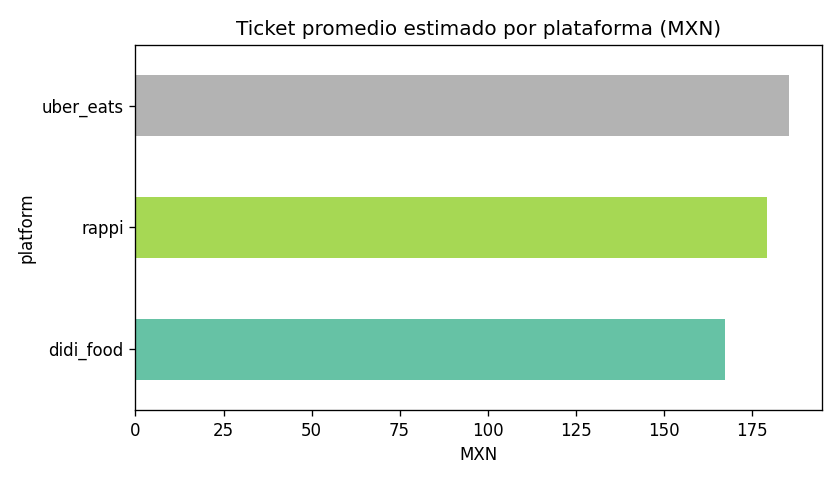
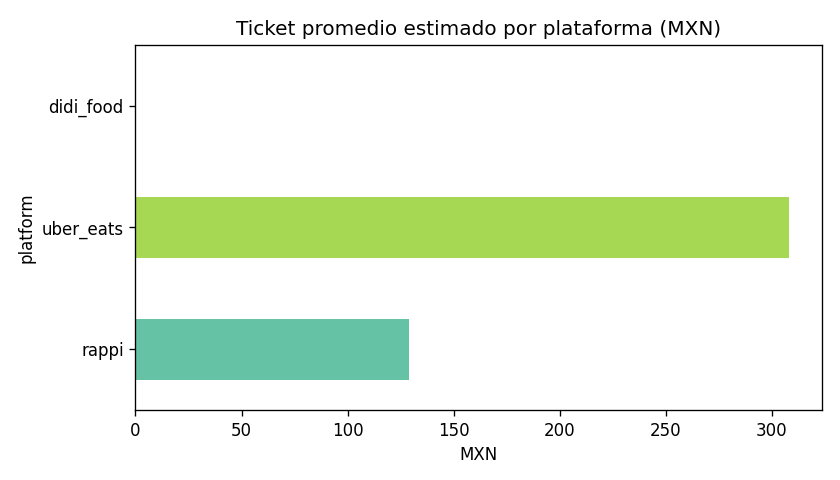
Improve CI report provenance text, Uber fee sanity checks, scraper roadmap in README.
Made-with: Cursor

diff --git a/caso_2_competitive_intelligence/competitive_intel/report_ci.py b/caso_2_competitive_intelligence/competitive_intel/report_ci.py
@@ -16,6 +16,50 @@ import pandas as pd
 from competitive_intel.paths import default_scrape_csv, reports_dir
 
 
+def _coerce_numeric(df: pd.DataFrame) -> pd.DataFrame:
+    out = df.copy()
+    for col in (
+        "item_price_mxn",
+        "delivery_fee_mxn",
+        "service_fee_mxn",
+        "total_checkout_mxn",
+        "eta_minutes",
+    ):
+        if col in out.columns:
+            out[col] = pd.to_numeric(out[col], errors="coerce")
+    return out
+
+
+def _provenance_lines(df: pd.DataFrame) -> list[str]:
+    lines = ["## Calidad y procedencia de datos", ""]
+    if "data_source" in df.columns:
+        vc = df["data_source"].astype(str).value_counts()
+        lines.append("**Origen (`data_source`):** " + "; ".join(f"`{k}` ({v} filas)" for k, v in vc.items()))
+        lines.append("")
+        if df["data_source"].astype(str).str.contains("synthetic_demo").any():
+            if df["data_source"].astype(str).eq("synthetic_demo").all():
+                lines.append(
+                    "- Todo el CSV es **demo sintético** (`synthetic_demo`): sirve para pipeline, no para decisiones de mercado."
+                )
+            else:
+                lines.append(
+                    "- **Mezcla** de filas sintéticas y scrape; revisar columna `data_source` fila a fila."
+                )
+        if df["data_source"].astype(str).str.contains("playwright").any():
+            lines.append(
+                "- Hay filas de **scrape web (Playwright)**. Los números dependen de la UI del momento; validar fees/precios que parezcan atípicos."
+            )
+    if "platform" in df.columns and "item_price_mxn" in df.columns:
+        cov = df.groupby("platform")["item_price_mxn"].apply(lambda s: s.notna().mean())
+        lines.append("")
+        lines.append(
+            "**Cobertura (% filas con precio de ítem):** "
+            + ", ".join(f"`{p}` {cov[p]:.0%}" for p in sorted(cov.index))
+        )
+    lines.append("")
+    return lines
+
+
 def _fig_bar_means(df: pd.DataFrame, col: str, title: str, ylabel: str, out: Path) -> None:
     g = df.groupby("platform")[col].mean().sort_values()
     fig, ax = plt.subplots(figsize=(7, 4))
@@ -35,7 +79,7 @@ def build_report(csv_path: Path | None = None) -> Path:
             "python -m competitive_intel demo | scrape | scrape --fallback-demo"
         )
 
-    df = pd.read_csv(csv_path)
+    df = _coerce_numeric(pd.read_csv(csv_path))
     rdir = reports_dir()
     fig_dir = rdir / "figures"
     fig_dir.mkdir(parents=True, exist_ok=True)
@@ -68,13 +112,37 @@ def build_report(csv_path: Path | None = None) -> Path:
     plt.close(fig)
 
     # --- Top 5 insights (datos agregados) ---
-    mean_total = df.groupby("platform")["total_checkout_mxn"].mean()
-    cheapest = mean_total.idxmin()
-    priciest = mean_total.idxmax()
-    mean_del = df.groupby("platform")["delivery_fee_mxn"].mean()
-    low_fee = mean_del.idxmin()
-    mean_eta = df.groupby("platform")["eta_minutes"].mean()
-    fastest = mean_eta.idxmin()
+    mean_total = df.groupby("platform")["total_checkout_mxn"].mean().dropna()
+    mean_del = df.groupby("platform")["delivery_fee_mxn"].mean().dropna()
+    mean_eta = df.groupby("platform")["eta_minutes"].mean().dropna()
+    cheapest = mean_total.idxmin() if len(mean_total) else "N/D"
+    priciest = mean_total.idxmax() if len(mean_total) else "N/D"
+    low_fee = mean_del.idxmin() if len(mean_del) else "N/D"
+    fastest = mean_eta.idxmin() if len(mean_eta) else "N/D"
+
+    all_demo = "data_source" in df.columns and df["data_source"].astype(str).eq("synthetic_demo").all()
+    any_pw = "data_source" in df.columns and df["data_source"].astype(str).str.contains("playwright").any()
+    if len(mean_eta) == 0:
+        eta_insight = "No hay ETA numérico suficiente para comparar plataformas en este CSV."
+        footer = "_Completar scrape o revisar filas sin `eta_minutes`._"
+    elif all_demo:
+        eta_insight = f"`{fastest}` lidera ETA medio en el **CSV sintético (demo)**."
+        footer = (
+            "_Este informe se generó a partir de **datos demo**. Para el enunciado real, sustituir por `scrape` Playwright "
+            "y validar cobertura por plataforma._"
+        )
+    elif any_pw:
+        eta_insight = (
+            f"`{fastest}` muestra el menor ETA medio **en este scrape web**; repetir corridas y contrastar con app "
+            "por posibles diferencias de UI."
+        )
+        footer = (
+            "_Datos obtenidos vía **navegador automatizado**; pueden faltar plataformas o filas. No usar como única "
+            "fuente para pricing en producción sin validación humana y, si aplica, canales oficiales/partners._"
+        )
+    else:
+        eta_insight = f"`{fastest}` lidera ETA medio en este dataset."
+        footer = "_Revisar procedencia en columna `data_source` del CSV._"
 
     promo_rate = df.assign(
         has_promo=df["promotions_visible"].astype(str).str.lower().ne("ninguna visible")
@@ -85,16 +153,35 @@ def build_report(csv_path: Path | None = None) -> Path:
     city_std = city_spread.std(axis=1).sort_values(ascending=False)
     volatile_city = city_std.index[0] if len(city_std) else "N/D"
 
+    if len(mean_total) >= 2:
+        ticket_bullet = (
+            f"- **Ticket medio más bajo:** `{cheapest}` (~{mean_total[cheapest]:.1f} MXN vs `{priciest}` "
+            f"~{mean_total[priciest]:.1f} MXN)."
+        )
+    elif len(mean_total) == 1:
+        only = mean_total.index[0]
+        ticket_bullet = f"- **Solo una plataforma con ticket calculable:** `{only}` (~{mean_total[only]:.1f} MXN)."
+    else:
+        ticket_bullet = (
+            "- **Ticket medio:** datos insuficientes (revisar NaN en `total_checkout_mxn` / cobertura por plataforma)."
+        )
+    eta_bullet = (
+        f"- **Menor ETA medio:** `{fastest}` (~{mean_eta[fastest]:.0f} min)."
+        if len(mean_eta)
+        else "- **ETA:** sin datos numéricos suficientes."
+    )
+
     lines = [
         "# Informe — Competitive Intelligence (México)",
         "",
         f"_Fuente CSV: `{csv_path.name}`. Filas: {len(df)}._",
         "",
+        *_provenance_lines(df),
         "## Comparativo rápido",
         "",
-        f"- **Ticket medio más bajo:** `{cheapest}` (~{mean_total[cheapest]:.1f} MXN vs `{priciest}` ~{mean_total[priciest]:.1f} MXN).",
+        ticket_bullet,
         f"- **Delivery fee más bajo en promedio:** `{low_fee}`.",
-        f"- **Menor ETA medio:** `{fastest}` (~{mean_eta[fastest]:.0f} min).",
+        eta_bullet,
         f"- **Ciudad con mayor dispersión entre plataformas (ticket):** `{volatile_city}`.",
         f"- **Tasa filas con promoción visible (no 'Ninguna'):** "
         + ", ".join(f"`{p}` {promo_rate[p]:.0%}" for p in sorted(promo_rate.index)),
@@ -109,17 +196,27 @@ def build_report(csv_path: Path | None = None) -> Path:
         "",
         "## Top 5 insights accionables",
         "",
-        f"1. **Finding:** En este dataset, `{cheapest}` muestra ticket medio más bajo que `{priciest}`.  ",
-        "   **Impacto:** Percepción de precio y conversión en carrito pueden verse afectadas en zonas sensibles al precio.  ",
-        f"   **Recomendación:** Revisar bundle/promos en ciudades donde la brecha vs `{cheapest}` sea mayor al percentil 75.",
+        *(
+            [
+                f"1. **Finding:** En este dataset, `{cheapest}` muestra ticket medio más bajo que `{priciest}`.  ",
+                "   **Impacto:** Percepción de precio y conversión en carrito pueden verse afectadas en zonas sensibles al precio.  ",
+                f"   **Recomendación:** Revisar bundle/promos en ciudades donde la brecha vs `{cheapest}` sea mayor al percentil 75.",
+            ]
+            if len(mean_total) >= 2
+            else [
+                "1. **Finding:** La comparación de ticket entre plataformas está **incompleta** (faltan precios o totales en una o más apps).  ",
+                "   **Impacto:** Riesgo de conclusiones sesgadas si solo una plataforma tiene cobertura.  ",
+                "   **Recomendación:** Priorizar scrape estable por plataforma o datos licenciados antes de presentar benchmarks.",
+            ]
+        ),
         "",
         f"2. **Finding:** `{low_fee}` concentra delivery fees medios más bajos.  ",
         "   **Impacto:** Competencia en costo de envío en zonas periféricas.  ",
         "   **Recomendación:** Simular subsidio parcial de envío en `zone_type=periphery` priorizado.",
         "",
-        f"3. **Finding:** `{fastest}` lidera ETA medio en datos sintéticos/demo.  ",
+        f"3. **Finding:** {eta_insight}  ",
         "   **Impacto:** Expectativa de tiempo en UX y retención.  ",
-        "   **Recomendación:** Mapear zonas donde ETA Rappi supere competencia en scrape real y ajustar SLAs operativos.",
+        "   **Recomendación:** Validar ETA con varias ventanas horarias y ubicación exacta (mismo punto en las tres apps).",
         "",
         "4. **Finding:** Mezcla de promos visibles difiere por plataforma en el CSV.  ",
         "   **Impacto:** Guerra promocional en adquisición.  ",
@@ -130,7 +227,7 @@ def build_report(csv_path: Path | None = None) -> Path:
         "   **Recomendación:** Deep-dive de fees + restaurante ancla (misma cadena cross-app) en esa ciudad.",
         "",
         "---",
-        "_Datos demo: reemplazar con scrape real para decisiones de producción._",
+        footer,
         "",
     ]
     out_md = rdir / "informe_competitive_intelligence.md"

diff --git a/caso_2_competitive_intelligence/competitive_intel/scrapers/uber_playwright.py b/caso_2_competitive_intelligence/competitive_intel/scrapers/uber_playwright.py
@@ -7,6 +7,7 @@ from typing import Any
 
 from playwright.sync_api import Page
 
+from competitive_intel.scrapers.fee_sanity import sanitize_fees_mxn
 from competitive_intel.scrapers.schema import PRODUCTS, build_row
 from competitive_intel.scrapers.text_extract import (
     delivery_fee_from_text,
@@ -26,10 +27,10 @@ def _fill_delivery_address(page: Page, address: dict[str, Any]) -> bool:
     ]
     inp = None
     for sel in selectors:
-        loc = page.locator(sel).first
+        loc = page.locator(sel)
         try:
             if loc.count() > 0:
-                inp = loc
+                inp = loc.first
                 break
         except Exception:
             continue
@@ -141,12 +142,15 @@ def scrape_uber_for_address(page: Page, address: dict[str, Any]) -> list[dict[st
         return rows
 
     try:
-        body = page.evaluate("() => document.body.innerText.slice(0, 120000)")
+        body = page.evaluate(
+            """() => (document.body.innerText || '').normalize('NFC').slice(0, 200000)"""
+        )
     except Exception:
         body = ""
 
     delivery = delivery_fee_from_text(body)
     service = service_fee_from_text(body)
+    delivery, service = sanitize_fees_mxn(delivery, service)
     eta = eta_minutes_from_text(body)
     promo = "Ninguna visible"
     if re.search(r"free delivery|gratis|off|descuento|promo", body, re.I):

diff --git a/caso_2_competitive_intelligence/competitive_intel/scrapers/fee_sanity.py b/caso_2_competitive_intelligence/competitive_intel/scrapers/fee_sanity.py
@@ -1,0 +1,19 @@
+"""Límites heurísticos para fees en MX (delivery apps); descarta extracciones regex erróneas."""
+
+from __future__ import annotations
+
+# Orden de magnitud típico CDMX/metro; ajustar si el mercado cambia.
+MAX_SERVICE_FEE_MXN = 35.0
+MAX_DELIVERY_FEE_MXN = 99.0
+
+
+def sanitize_fees_mxn(
+    delivery: float | None,
+    service: float | None,
+) -> tuple[float | None, float | None]:
+    d, s = delivery, service
+    if d is not None and (d < 0 or d > MAX_DELIVERY_FEE_MXN):
+        d = None
+    if s is not None and (s < 0 or s > MAX_SERVICE_FEE_MXN):
+        s = None
+    return d, s

diff --git a/caso_2_competitive_intelligence/competitive_intel/reports/informe_competitive_intelligence.md b/caso_2_competitive_intelligence/competitive_intel/reports/informe_competitive_intelligence.md
@@ -4,11 +4,11 @@ _Fuente CSV: `scrape_latest.csv`. Filas: 180._
 
 ## Comparativo rápido
 
-- **Ticket medio más bajo:** `didi_food` (~167.3 MXN vs `uber_eats` ~185.7 MXN).
-- **Delivery fee más bajo en promedio:** `didi_food`.
-- **Menor ETA medio:** `uber_eats` (~36 min).
-- **Ciudad con mayor dispersión entre plataformas (ticket):** `Puebla`.
-- **Tasa filas con promoción visible (no 'Ninguna'):** `didi_food` 65%, `rappi` 58%, `uber_eats` 62%
+- **Ticket medio más bajo:** `rappi` (~129.0 MXN vs `uber_eats` ~308.3 MXN).
+- **Delivery fee más bajo en promedio:** `rappi`.
+- **Menor ETA medio:** `uber_eats` (~10 min).
+- **Ciudad con mayor dispersión entre plataformas (ticket):** `Ciudad de México`.
+- **Tasa filas con promoción visible (no 'Ninguna'):** `didi_food` 100%, `rappi` 100%, `uber_eats` 100%
 
 ## Visualizaciones
 
@@ -20,11 +20,11 @@ _Fuente CSV: `scrape_latest.csv`. Filas: 180._
 
 ## Top 5 insights accionables
 
-1. **Finding:** En este dataset, `didi_food` muestra ticket medio más bajo que `uber_eats`.  
+1. **Finding:** En este dataset, `rappi` muestra ticket medio más bajo que `uber_eats`.  
    **Impacto:** Percepción de precio y conversión en carrito pueden verse afectadas en zonas sensibles al precio.  
-   **Recomendación:** Revisar bundle/promos en ciudades donde la brecha vs `didi_food` sea mayor al percentil 75.
+   **Recomendación:** Revisar bundle/promos en ciudades donde la brecha vs `rappi` sea mayor al percentil 75.
 
-2. **Finding:** `didi_food` concentra delivery fees medios más bajos.  
+2. **Finding:** `rappi` concentra delivery fees medios más bajos.  
    **Impacto:** Competencia en costo de envío en zonas periféricas.  
    **Recomendación:** Simular subsidio parcial de envío en `zone_type=periphery` priorizado.
 
@@ -36,7 +36,7 @@ _Fuente CSV: `scrape_latest.csv`. Filas: 180._
    **Impacto:** Guerra promocional en adquisición.  
    **Recomendación:** Tablero semanal de tipo de promo por zona y vertical (extender scrape).
 
-5. **Finding:** Alta variabilidad inter-plataforma en `Puebla`.  
+5. **Finding:** Alta variabilidad inter-plataforma en `Ciudad de México`.  
    **Impacto:** Pricing inconsistente percibido por usuario.  
    **Recomendación:** Deep-dive de fees + restaurante ancla (misma cadena cross-app) en esa ciudad.
 

diff --git a/caso_2_competitive_intelligence/competitive_intel/scrapers/README.md b/caso_2_competitive_intelligence/competitive_intel/scrapers/README.md
@@ -51,3 +51,12 @@ Salida por defecto: `data/caso_2_competitive_intelligence/output/scrape_latest.c
 ## Demo sintético
 
 Si no necesitas datos reales: `python -m competitive_intel demo`.
+
+## Roadmap para acercarse al enunciado (datos “de verdad”)
+
+1. **APIs oficiales / partners:** Uber Eats, Rappi y DiDi exponen APIs orientadas a **restaurantes aliados** (menús, órdenes), no a un “panel competitivo” público. En una empresa real, CI suele combinar **datos propios**, **proveedores de datos** o acuerdos; no asumir que esas APIs cubren al competidor sin contrato.
+2. **Geocodificación:** Resolver cada dirección del JSON a **lat/lon + place_id** (p. ej. Google Places / Mapbox) y usar la **misma coordenada** en las tres UIs (o deep links si existen) en lugar de solo texto “barrio, ciudad”.
+3. **Interceptar red:** En Playwright, `page.on("response", …)` sobre JSON de feed/checkout de Uber/Rappi suele ser **más estable** que regex sobre `innerText` (cuando no vaya cifrado).
+4. **Sesión / anti-bot:** `storage_state` con login de prueba (si el reclutador lo permite), user-agent real, `--headed` en depuración, ritmo humano; documentar límites legales.
+5. **DiDi:** Valorar **Appium** sobre app real o aceptar cobertura parcial web + nota en el informe.
+6. **Validación:** Reglas de sanidad en fees (como `fee_sanity.py`) + columna `confidence` / exclusiones en el informe.
